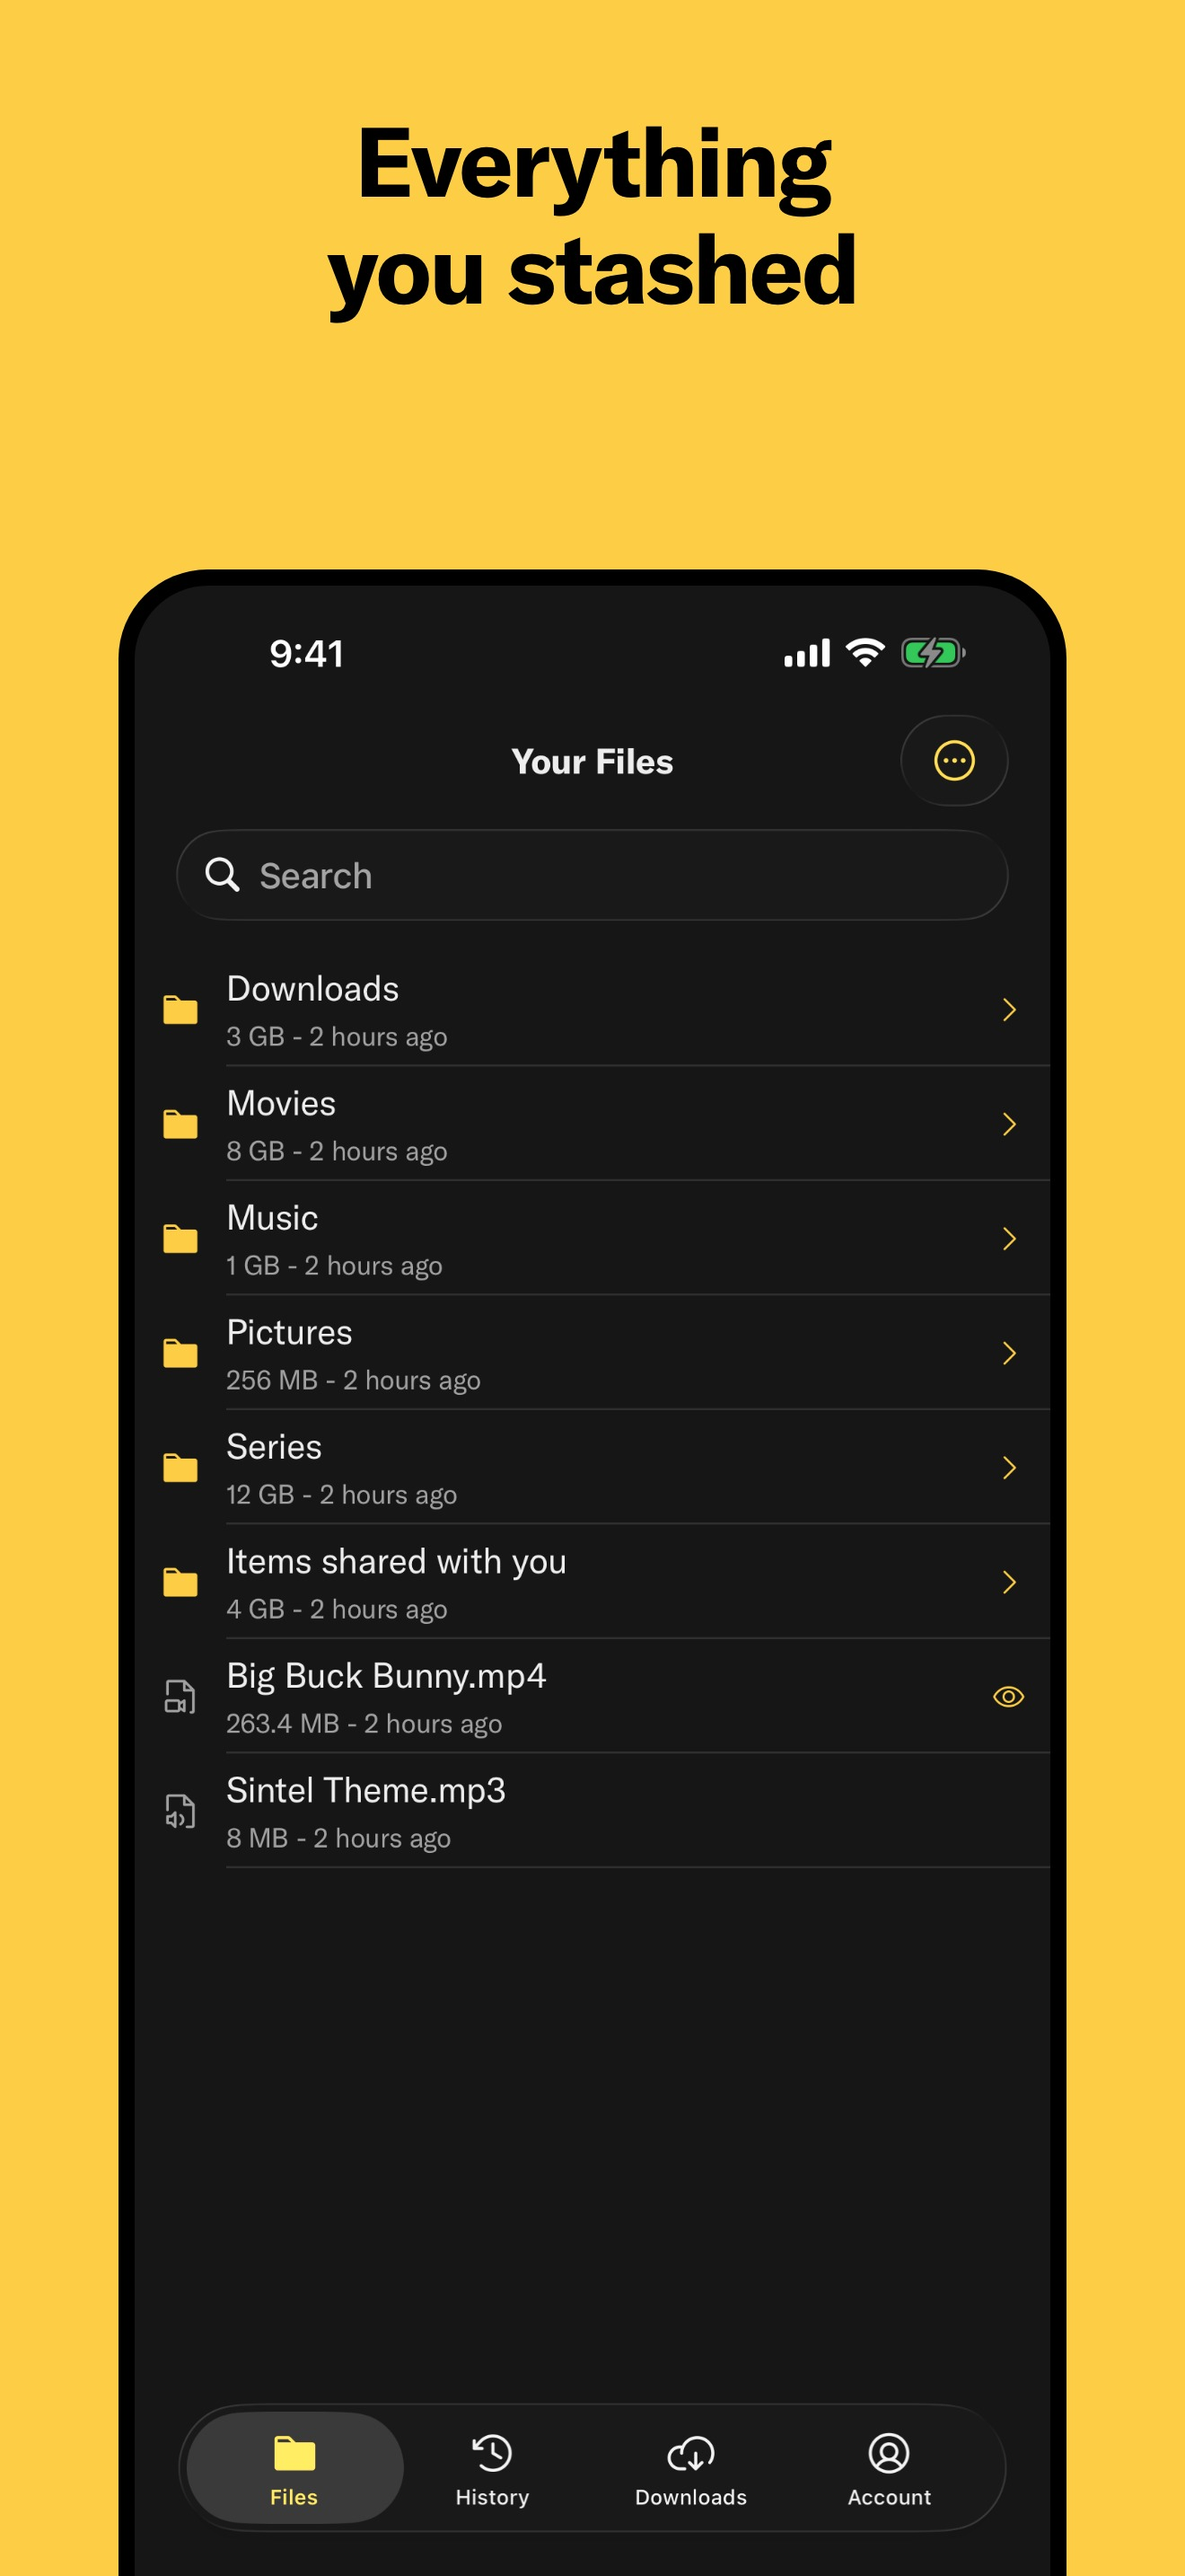
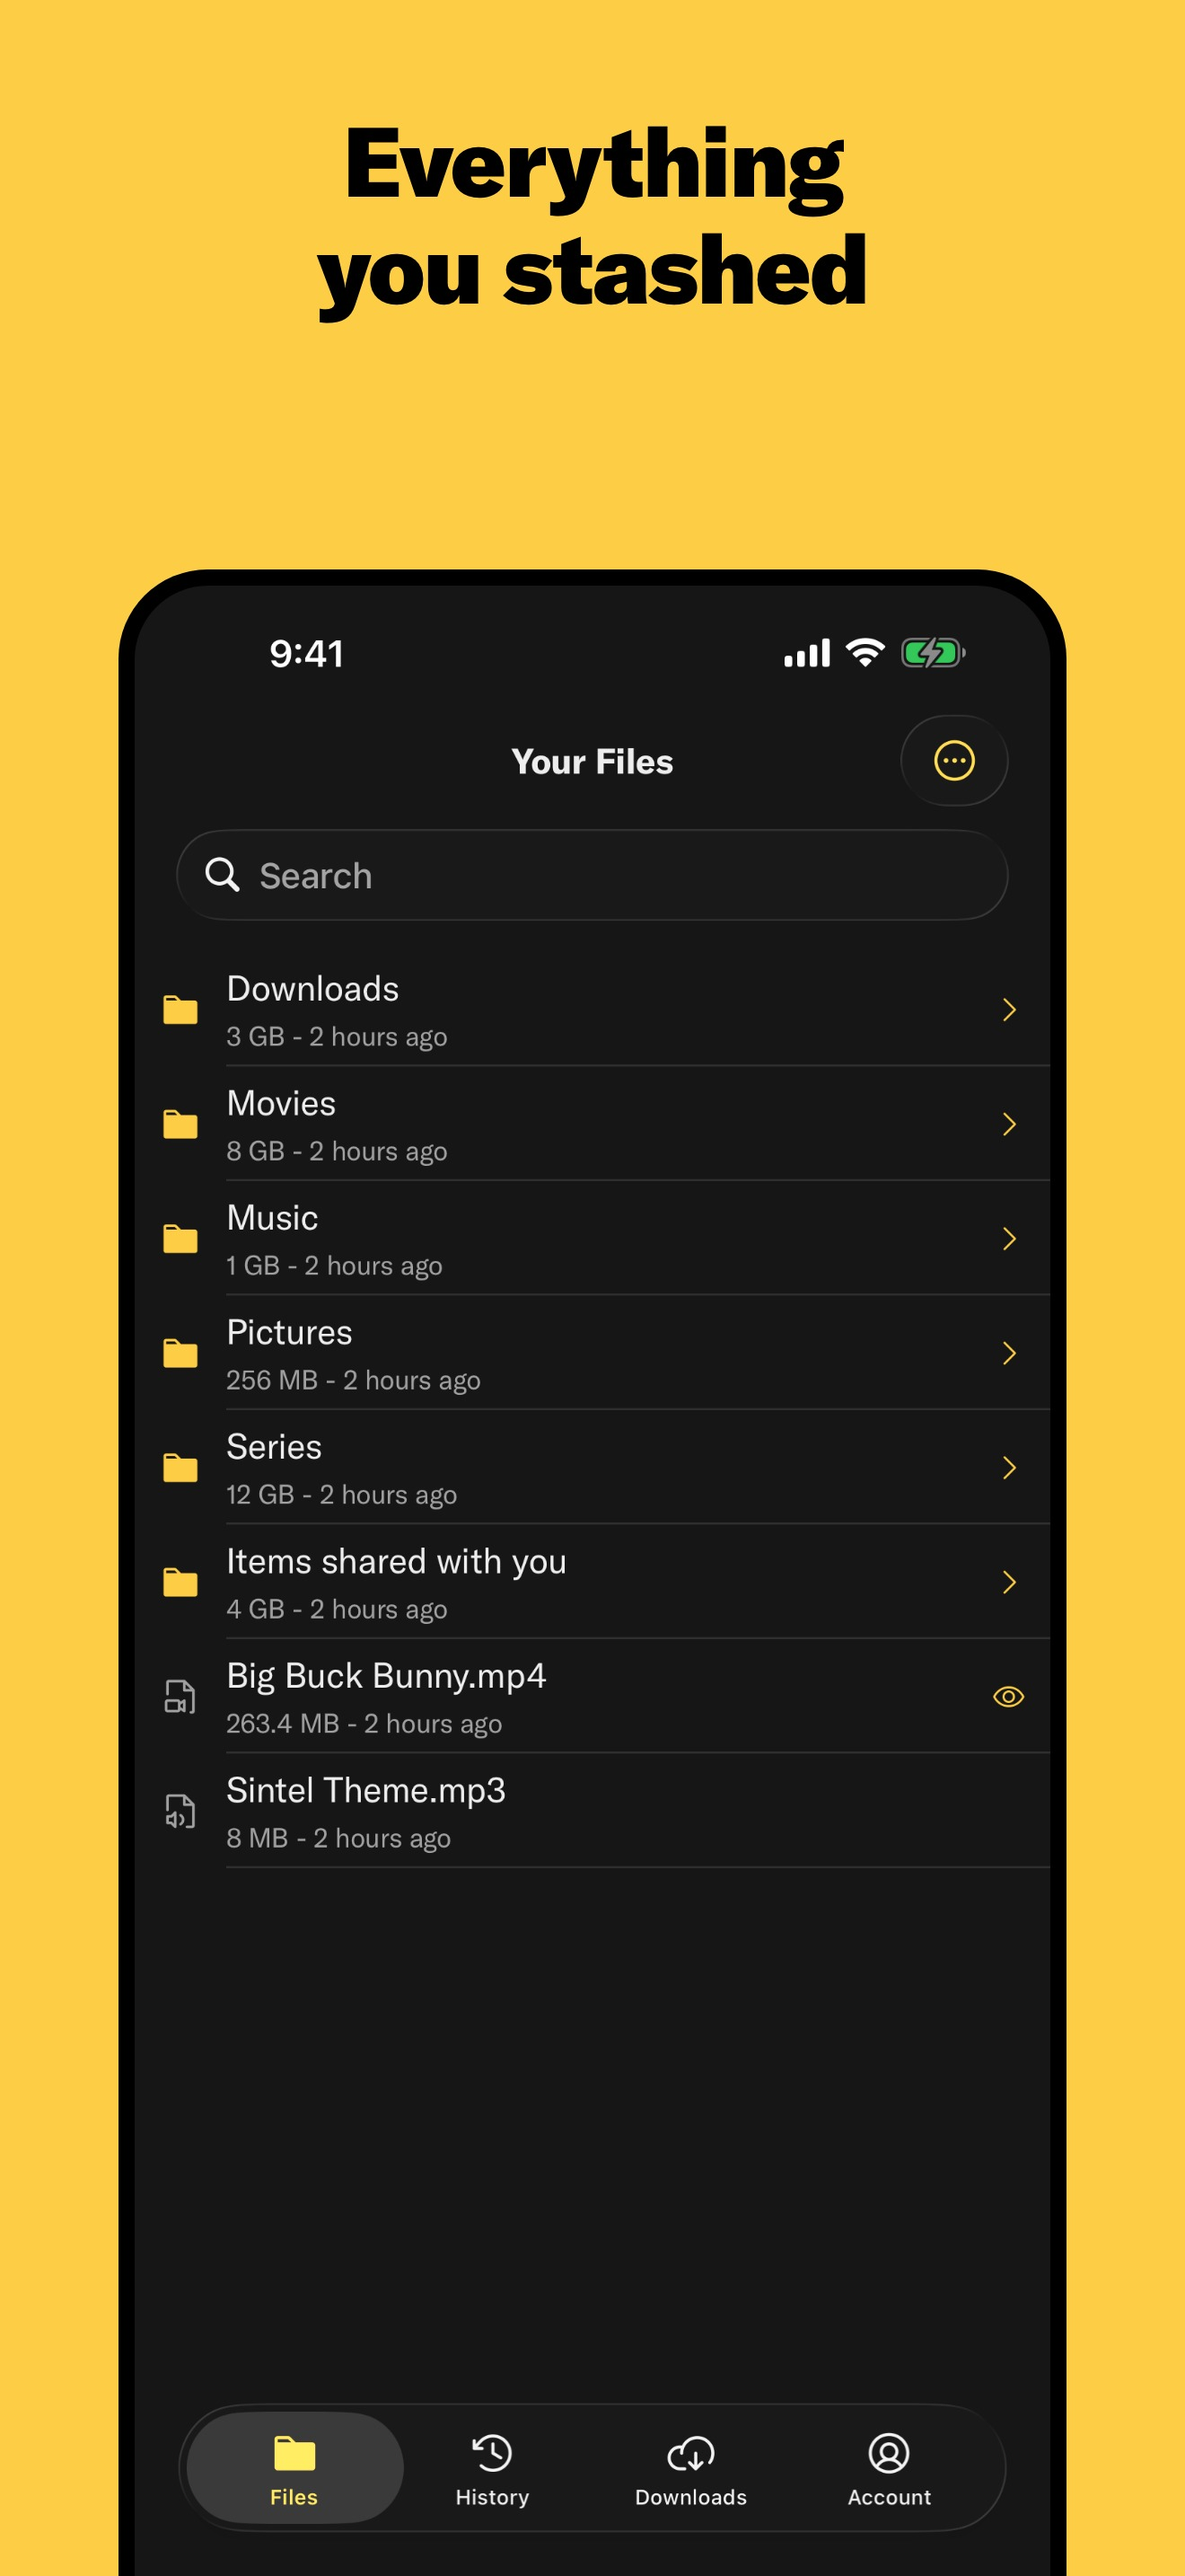
fix(store): harden the renderer against partial and silent failures
Review findings on #51, all valid, two of them found independently by both
reviewers.

Output was wiped before the render loop ran, so a browser crash part way through
left a half-written listing in git — and missing images look intentional in a
diff. Rendering now stages to a sibling directory and swaps on success.

brandFontFaces refused when Putio/Fonts was absent but not when it held files
that matched no known weight. An empty @font-face block falls back to a system
face, which is precisely the outcome the check exists to prevent, so it now
fails when no usable face is produced rather than when no file is present.

The wait for the embedded screenshot only listened for `load`. A decode failure
left the promise unsettled and the run hung instead of failing; it now rejects on
error and caps the wait.

--check validated the plan but not the render prerequisites, so it could pass and
then fail on render. Both modes now resolve tokens and fonts, and a missing
@putdotio/design reports a remedy instead of an unhandled fs error.
store-images-check also builds its raw inputs, so it works from a clean checkout.

The caption was set at weight 700 while the PR described GT America Black. Black
is what the Apple TV shots use, so the template moves to 900 and the images are
re-rendered.

Changed region(s): [[0.2485, 0.031, 0.7455, 0.1241]]

diff --git a/scripts/store-images/template.html b/scripts/store-images/template.html
@@ -41,7 +41,8 @@
         color: #000;
         font-size: var(--caption-size);
         line-height: 1.1;
-        font-weight: 700;
+        /* GT America Black — matches the weight the Apple TV shots use. */
+        font-weight: 900;
         letter-spacing: -0.02em;
         /* Captions are sentence case by contract (see Config/StoreCaptions.json);
            this guards a stray all-caps string from shouting. */
